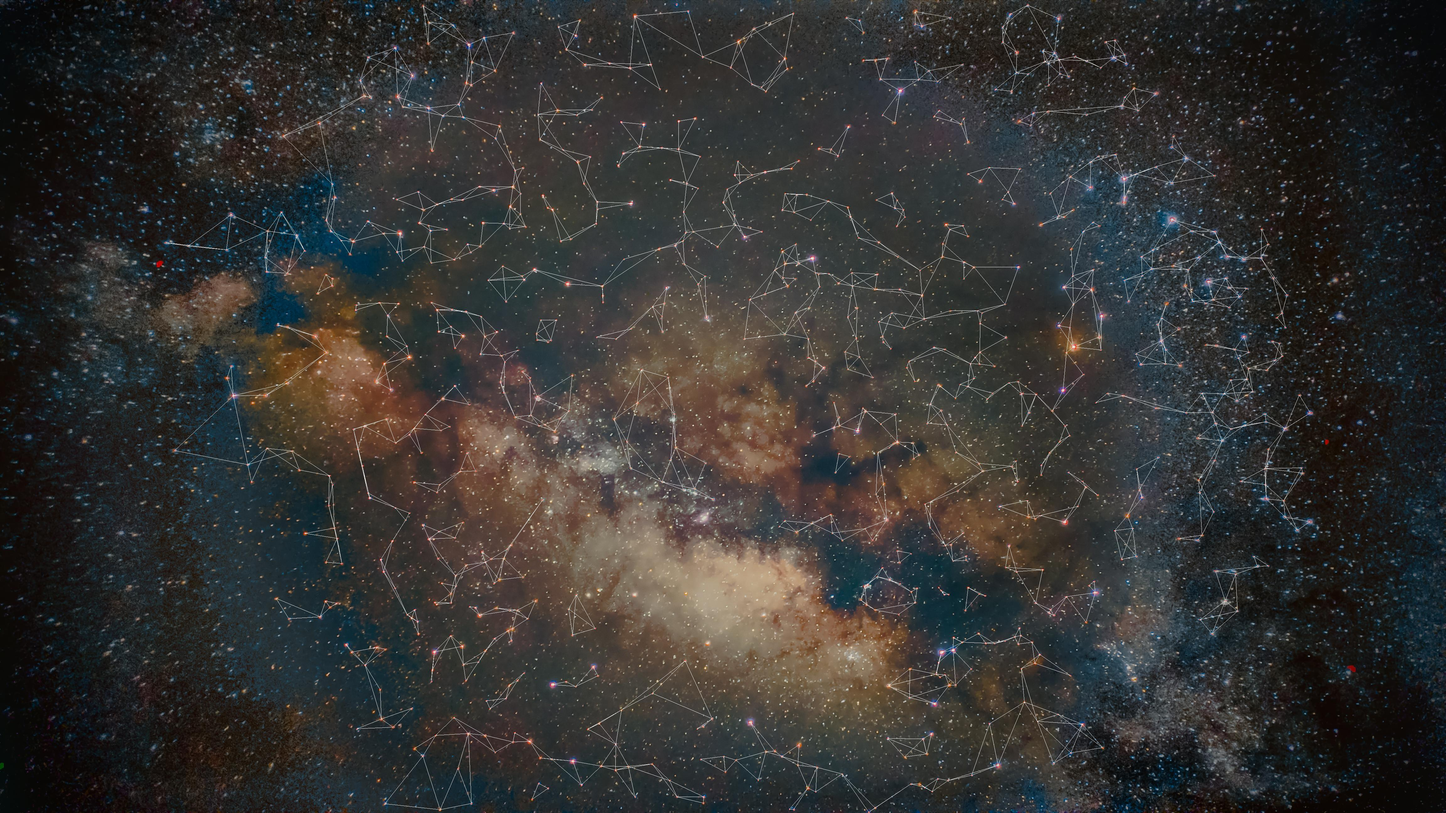
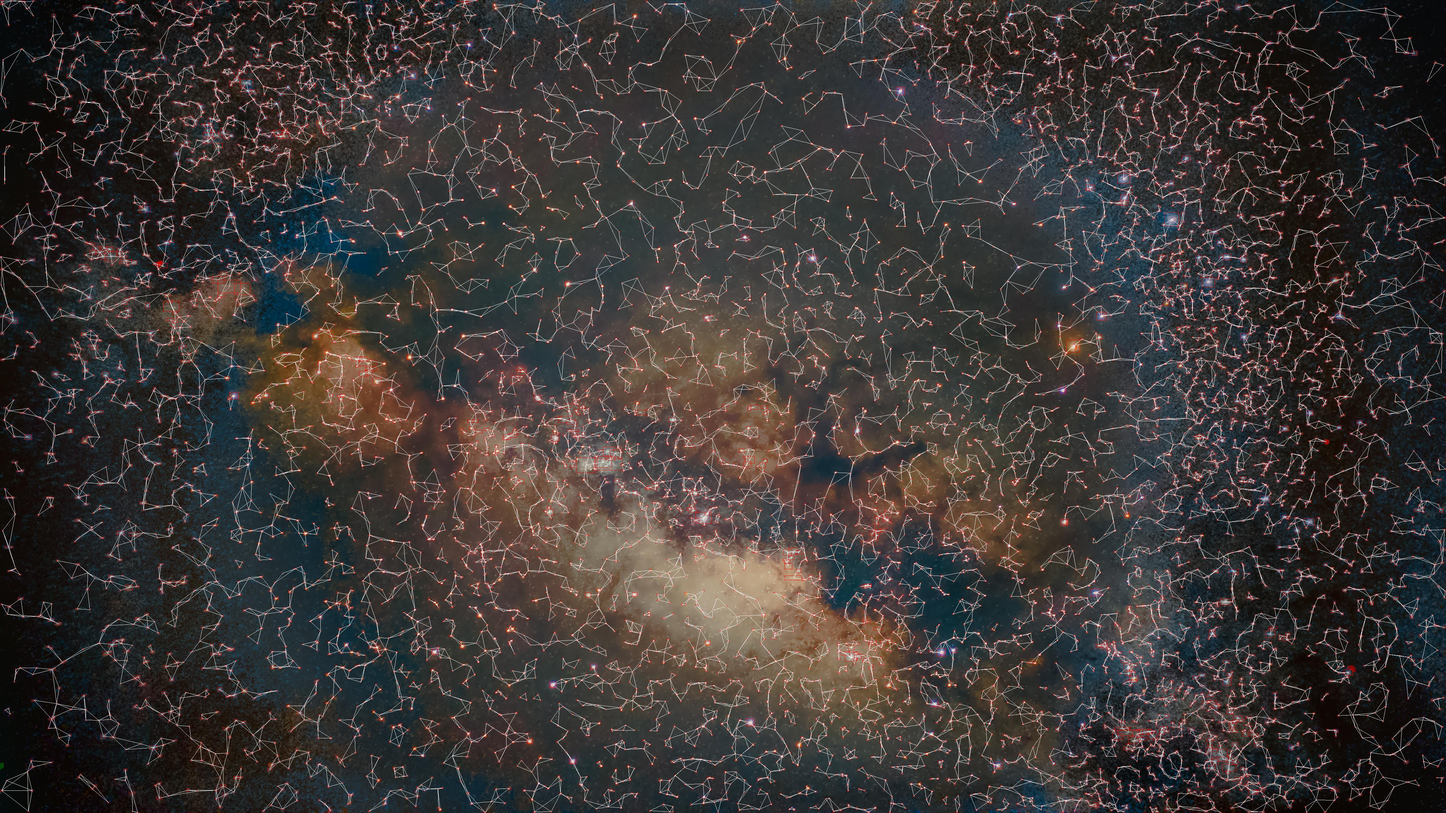
F-A-S-T image analyzer!!!

diff --git a/utils/starfinder.py b/utils/starfinder.py
@@ -6,10 +6,13 @@ from utils.base_util import BaseUtil
 from dsimage import DSImage
 from logger import logger
 import pandas as pd
-from uuid import uuid4
 import tqdm
 from scipy.spatial import KDTree
 import numpy as np
+from scipy.spatial import distance
+from math import acos, degrees
+import pandas as pd
+from uuid import uuid4
 
 class DSObjects:
     def __init__(self, id: (uuid4, str), data):
@@ -32,7 +35,9 @@ class StarfinderUtil(BaseUtil):
         """
         super().__init__()
         self.funcs = {
-            "detect": self.detect
+            "detect": self.detect,
+            "group": self.group,
+            "analyze": self.analyze
         }
         logger.debug(f"[{__name__}] {self.id} registered as StarfinderUtil")
         
@@ -55,12 +60,47 @@ class StarfinderUtil(BaseUtil):
             arr.append(list(i))
         objects.data = pd.DataFrame(arr[1:], columns=objects.data.dtype.names)
         objects.data['uuid'] = [uuid4() for i in tqdm.trange(len(objects.data))]
-        # Now we have a dataframe with the objects and their uuids.
-        # Now we can use those UUIDs to group the objects into triangles.
-        # Use math.dist, form triplets of nearest neighbors, and then calculate the angles and side lengths.
+        
         tree = objects.data[['x', 'y']].to_numpy()
         _tree = tree.copy()
         kdtree = KDTree(tree)
-        nearest_neighbors = np.array(kdtree.query(tree, k=3))
-        return nearest_neighbors, _tree
+        neighbours = np.array(kdtree.query(tree, k=3))
+        neighbours = np.moveaxis(neighbours, 1, 0)
+        neighbours = np.moveaxis(neighbours, 1, -1)
+        
+        tris = []
+        for triplet in neighbours:
+            indexes = [int(i[1]) for i in triplet]
+            _xz = _tree[indexes[0]], tree[indexes[1]], tree[indexes[2]]
+            tris.append(_xz)
+        
+        return tris
+    
+    def analyze(self, tris: list):
+        """
+        Analyze the triangles for their side length ratios and angles and store them in a dataframe
+        """
+        tris_header = ["uuid", "side_1", "side_2", "side_3", "angle_1", "angle_2", "angle_3"]
+        tris_data = []
+
+        for tri in tris:
+            # Tri shape: ((x1, y1), (x2, y2), (x3, y3))
+            # Get the distances between the points
+            distances = [distance.euclidean(tri[0], tri[1]), distance.euclidean(tri[1], tri[2]), distance.euclidean(tri[2], tri[0])]
+            # Now convert the distances to ratios
+            total = sum(distances)
+            distances = [i / total for i in distances]
+            
+            # Get the angles between the points
+            angles = [degrees(acos((distances[0]**2 + distances[2]**2 - distances[1]**2) / (2 * distances[0] * distances[2]))),
+                    degrees(acos((distances[0]**2 + distances[1]**2 - distances[2]**2) / (2 * distances[0] * distances[1]))),
+                    degrees(acos((distances[1]**2 + distances[2]**2 - distances[0]**2) / (2 * distances[1] * distances[2])))]
+            # Store the data
+            tris_data.append([uuid4(), distances[0], distances[1], distances[2], angles[0], angles[1], angles[2]])
+            
+        tris_df = pd.DataFrame(tris_data, columns=tris_header)
+        tris_df.set_index("uuid", inplace=True)
+        
+        return tris_df
+
 EXPORT_UTIL = StarfinderUtil

diff --git a/main.py b/main.py
@@ -14,7 +14,7 @@ image.write_tiff("./example_images/test.tiff")
 # colornoised = utils["NoiseUtil"].denoise_color(image)
 bkgremoved = utils["BackgroundUtil"].extract(image)
 subtracted = utils["BackgroundUtil"].subtract(image, bkgremoved)
-objects = utils["StarfinderUtil"].detect(image, {"thresh": 128})
+objects = utils["StarfinderUtil"].detect(image, {"thresh": 32})
 obj_coords = np.array([objects.data['x'], objects.data['y'], objects.data['a'], objects.data['b']])
 
 # Mark the objects
@@ -27,27 +27,13 @@ for obj in obj_coords.T:
 im.save("./example_images/result.jpg")
 
 # Format the objects into a dataframe
-import pandas as pd
+tris = utils["StarfinderUtil"].group(objects, {})
 
-neighbours, tree = utils["StarfinderUtil"].group(objects, {})
-# Plot the neighbours with white lines
-from PIL import Image, ImageDraw
-im = Image.open('./example_images/result.jpg')
-draw = ImageDraw.Draw(im)
-fct = 2
-# This is the return value of scipy.spatial.KDTree.query()
-# Draw the lines
-neighbours = np.moveaxis(neighbours, 1, 0)
-neighbours = np.moveaxis(neighbours, 1, -1)
-tris = []
-for triplet in neighbours:
-    indexes = [int(i[1]) for i in triplet]
-    _xz = tree[indexes[0]], tree[indexes[1]], tree[indexes[2]]
-    draw.line([_xz[0][0], _xz[0][1], _xz[1][0], _xz[1][1]], fill="white")
-    draw.line([_xz[1][0], _xz[1][1], _xz[2][0], _xz[2][1]], fill="white")
-    draw.line([_xz[2][0], _xz[2][1], _xz[0][0], _xz[0][1]], fill="white")
-    tris.append(_xz)
-im.save("./example_images/result-trimarked.jpg")
 # TODO: Do the same processes with different thresholds for the object detector to get more variety in structure (size of groups of objects)
 # TODO: Higher thresholds give larger triangle structures, lower thresholds give smaller triangle structures
 # TODO: Make this process configurable
+# TODO: Make this a function
+
+# Now analyze the triangles for their side length ratios and angles and store them in a dataframe
+analyzed = utils["StarfinderUtil"].analyze(tris)
+print(analyzed.head())

diff --git a/README.md b/README.md
@@ -12,3 +12,5 @@ It'll also have a blender-style processing automation planner.
 
 What's really cool is that you can extend DeepStack yourself! It's extremely modular and easily modifiable, assuming that you know python.
 Don't forget to open a PR if you do make something cool!
+
+Do you feel that those annoying satellites and aeroplanes are ruining your subs? Well, DeepStack has a solution for you! It can remove such "outliners" from your stack!
